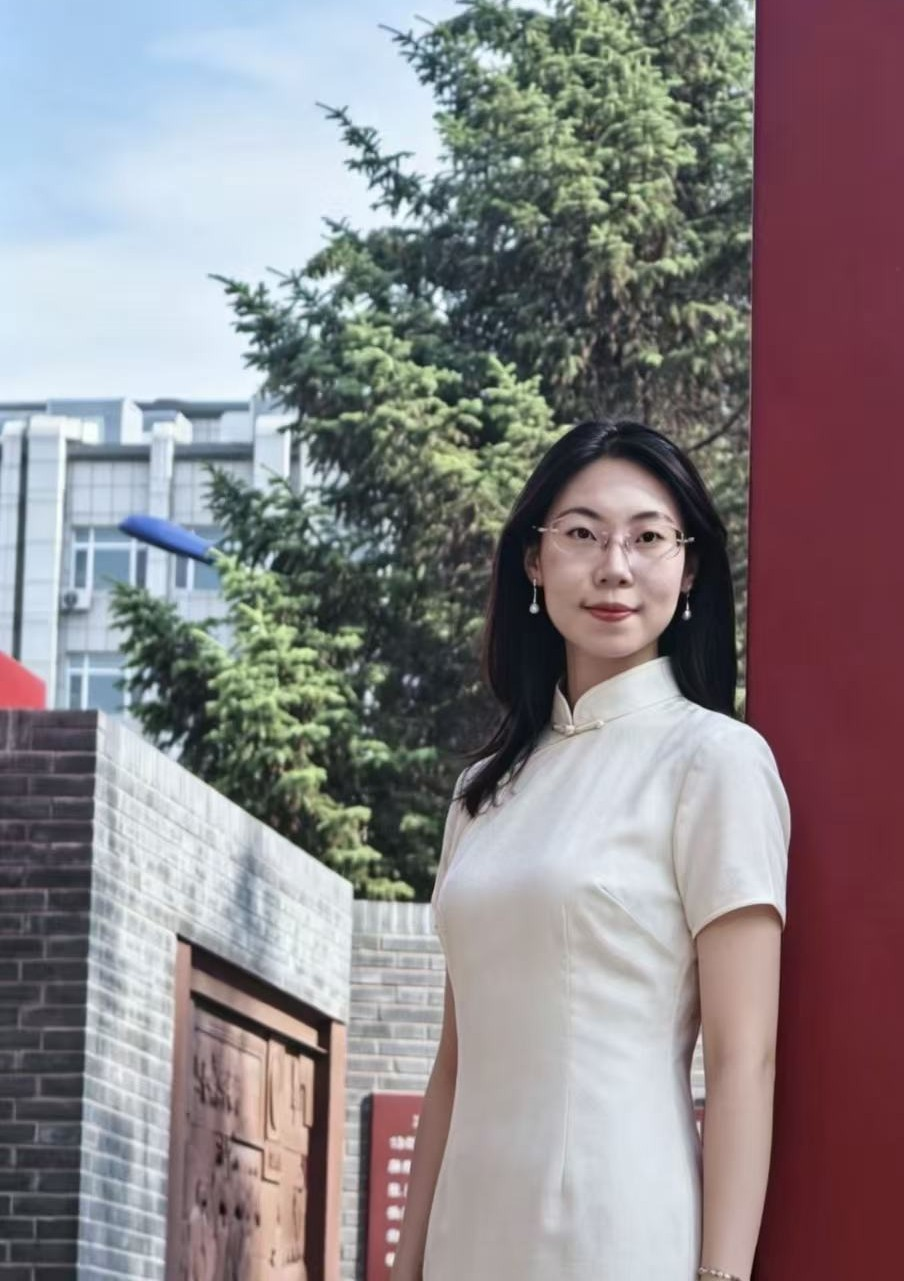
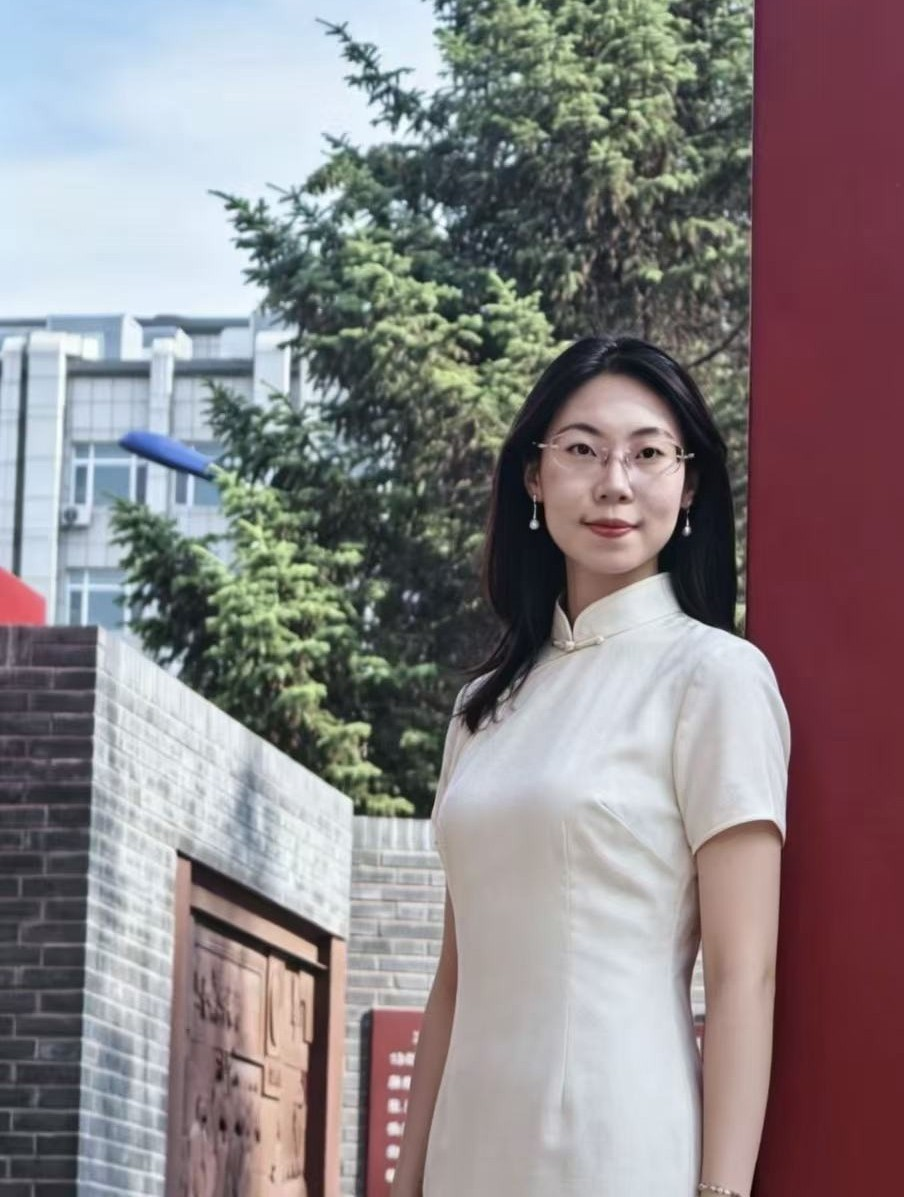
update

diff --git a/src/views/PeoplePage.vue b/src/views/PeoplePage.vue
@@ -881,8 +881,12 @@ export default {
 
       alumni: [
         {
+          name: "Ziyu Wang",
+          detail: "visiting student (2026). — Now at Wenzhou Medical University."
+        },
+        {
           name: "Ming Zhu",
-          detail: "visiting student (2024). — Now at Wenzhou Medical University."
+          detail: "visiting student (2024, 2026). — Now at Wenzhou Medical University."
         },
         {
           name: "Kanglu Pei",
